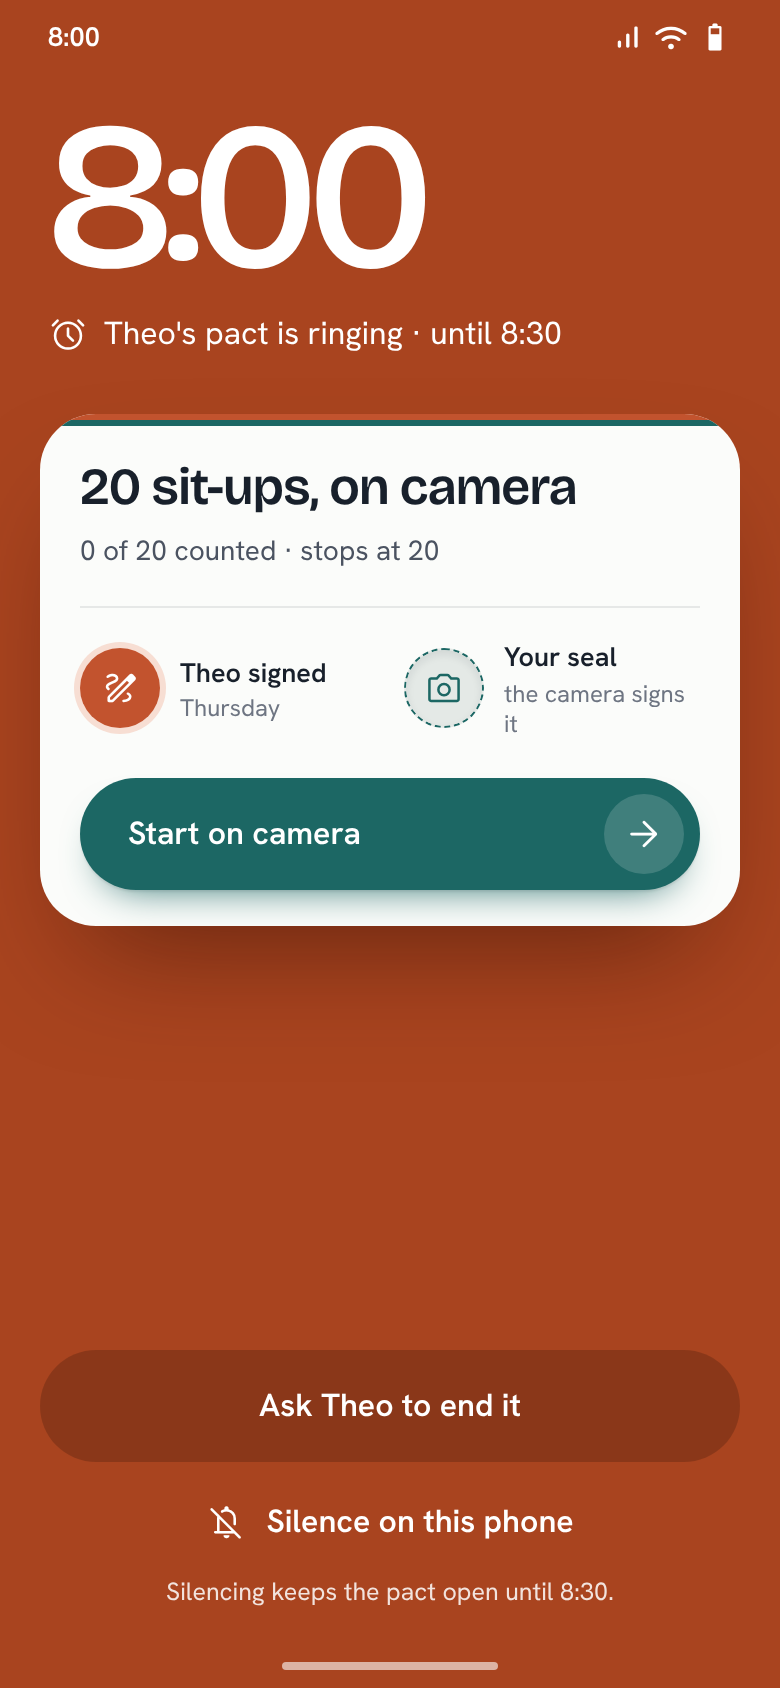
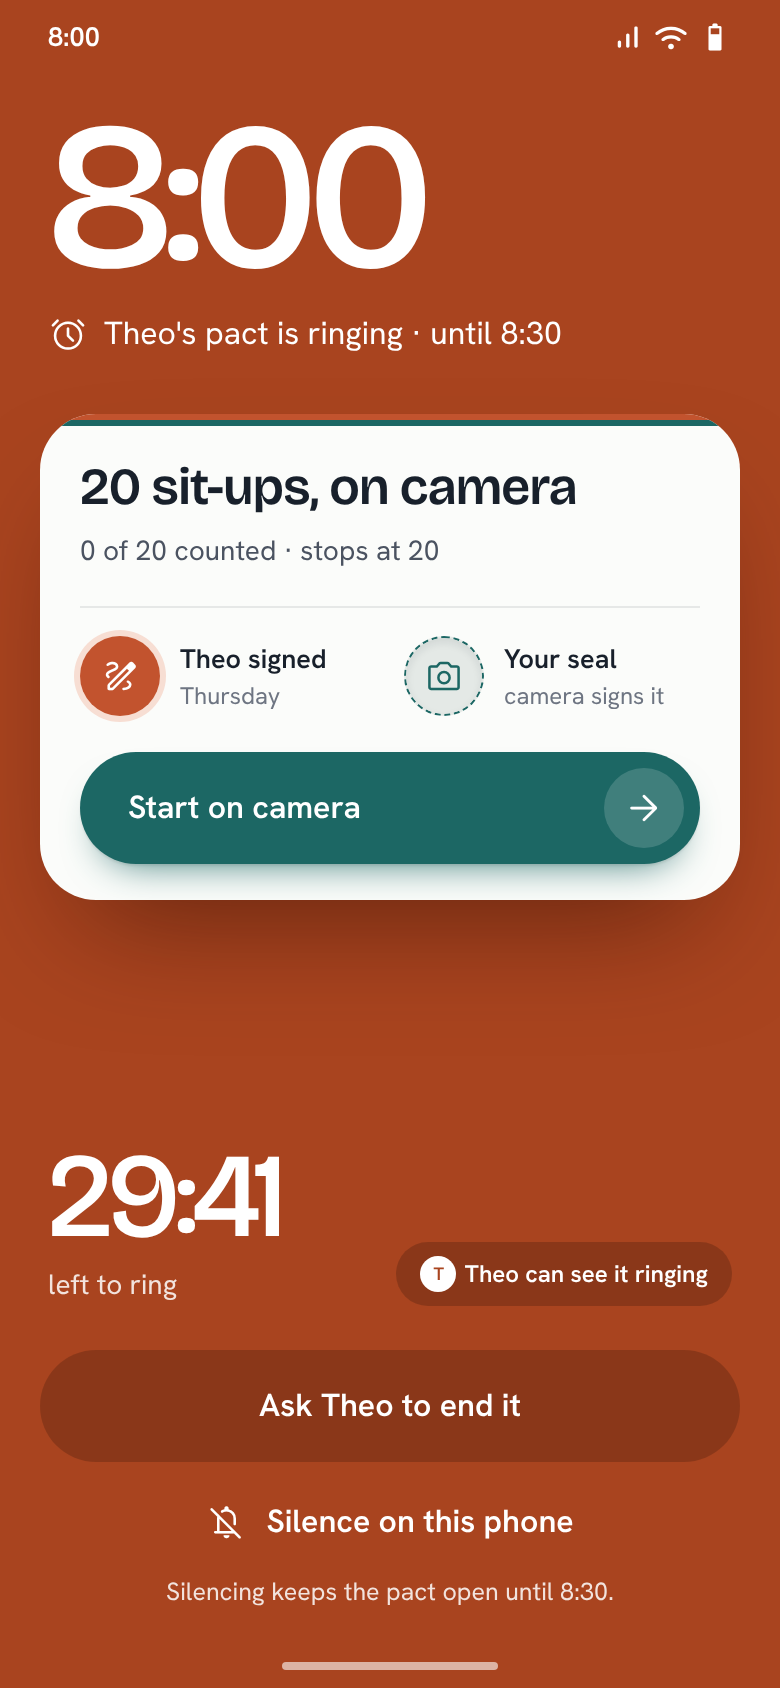
Resolve the verdict pass's remaining items on the Heartpact screens
The alarm's empty band now carries the live ring countdown and that
Theo can see it ringing; history axes label only their ends with today
marked by its ring; the sealed screen's strip agrees with its unbroken
15-day streak; two widowed lines rebalanced.

Claude-Session: https://claude.ai/code/session_01JQgGJKj4npsEDXdNrsNSqP

diff --git a/design/heartpact-v2/screens/09-pacts.html b/design/heartpact-v2/screens/09-pacts.html
@@ -3,24 +3,25 @@
   <div class="largebar"><div><div class="headline-l">Pacts</div><div class="sub">What you've promised each other</div></div></div>
   <div style="padding:0 12px"><div class="seg"><div class="on"><span class="ms s18">check</span>For you</div><div>You set</div></div></div>
   <div class="pact by-theo" style="margin:14px 12px 0"><div class="in" style="padding:20px 20px 18px">
-    <div style="display:flex;justify-content:space-between;align-items:flex-start"><div><div class="title-l">20 sit-ups</div><div class="body-s muted" style="margin-top:3px">Daily at 8:00 · set by Theo · rings up to 30 min</div></div><span class="tag maya">Sealed today</span></div>
+    <div style="display:flex;justify-content:space-between;align-items:flex-start"><div><div class="title-l">20 sit-ups</div><div class="body-s muted" style="margin-top:3px">Daily 8:00 · set by Theo · 30 min ring</div></div><span class="tag maya">Sealed today</span></div>
     <div class="days" style="margin-top:18px">
       <i class="sealed"></i><i class="sealed"></i><i class="sealed"></i><i class="missed"></i><i class="sealed"></i><i class="ended"></i><i class="sealed"></i><i class="sealed"></i><i class="sealed"></i><i class="sealed"></i><i class="sealed"></i><i class="sealed"></i><i class="sealed today"></i><i class="planned"></i>
     </div>
-    <div style="display:flex;justify-content:space-between;margin-top:6px" class="body-s faint"><span>29 Sep</span><span>Today</span><span>12 Oct</span></div>
+    <div style="display:flex;justify-content:space-between;margin-top:6px" class="body-s faint"><span>29 Sep</span><span>tomorrow, 12 Oct</span></div>
   </div></div>
   <div class="pact slim by-theo" style="margin:12px 12px 0"><div class="in">
     <div style="display:flex;justify-content:space-between;align-items:flex-start"><div><div class="title-l" style="font-size:17px">Plank, 60 seconds</div><div class="body-s muted" style="margin-top:3px">Sundays at 9:30 · set by Theo</div></div><span class="tag">Tomorrow</span></div>
     <div class="days" style="margin-top:14px">
       <i class="off"></i><i class="off"></i><i class="off"></i><i class="off"></i><i class="off"></i><i class="off"></i><i class="sealed"></i><i class="off"></i><i class="off"></i><i class="off"></i><i class="off"></i><i class="off"></i><i class="off"></i><i class="planned"></i>
     </div>
-    <div style="display:flex;justify-content:space-between;margin-top:6px" class="body-s faint"><span>29 Sep</span><span>Today</span><span>12 Oct</span></div>
+    <div style="display:flex;justify-content:space-between;margin-top:6px" class="body-s faint"><span>29 Sep</span><span>tomorrow, 12 Oct</span></div>
   </div></div>
   <div class="legend body-s muted" style="padding:14px 22px 0">
     <span><i style="background:var(--maya)"></i>sealed</span>
     <span><i style="border:1.5px solid var(--ink-3)"></i>missed</span>
     <span><i class="days-ended" style="border:1.5px solid var(--ink-4)"></i>ended together</span>
     <span><i style="border:1.5px dashed var(--maya)"></i>scheduled</span>
+    <span><i style="background:var(--maya);box-shadow:0 0 0 3px var(--maya-soft)"></i>today</span>
   </div>
 </div>
 <div class="fab act-maya" style="bottom:126px"><span class="ms">add</span>New pact for Theo</div>

diff --git a/design/heartpact-v2/screens/05-alarm.html b/design/heartpact-v2/screens/05-alarm.html
@@ -9,13 +9,17 @@
       <div class="body-m muted" style="margin-top:6px">0 of 20 counted · stops at 20</div>
       <div class="seals" style="margin-top:18px;padding-top:14px;border-top:1px solid var(--rule)">
         <div class="sealrow"><div class="seal signed theo"><span class="ms s20">draw</span></div><div><span class="l">Theo signed</span><small>Thursday</small></div></div>
-        <div class="sealrow"><div class="seal pending maya"><span class="ms s20">photo_camera</span></div><div><span class="l">Your seal</span><small>the camera signs it</small></div></div>
+        <div class="sealrow"><div class="seal pending maya"><span class="ms s20">photo_camera</span></div><div><span class="l">Your seal</span><small>camera signs it</small></div></div>
       </div>
       <div class="btn filled trail act-maya" style="margin-top:18px">Start on camera<span class="knob"><span class="ms">arrow_forward</span></span></div>
     </div>
   </div>
 
-  <div class="stack" style="margin-top:auto;padding-bottom:40px">
+  <div style="margin-top:auto;padding:0 4px;display:flex;align-items:flex-end;justify-content:space-between">
+    <div><div class="display-m" style="font-size:60px">29:41</div><div class="body-m" style="opacity:.85;margin-top:6px">left to ring</div></div>
+    <span class="tag" style="background:rgba(0,0,0,.18);color:#fff;height:32px;padding:0 12px;border-radius:16px"><span class="disc sm theo" style="width:18px;height:18px;font-size:9px;background:#fff;color:#A9441F">T</span>Theo can see it ringing</span>
+  </div>
+  <div class="stack" style="margin-top:22px;padding-bottom:40px">
     <div class="btn" style="background:rgba(0,0,0,.18);color:#fff">Ask Theo to end it</div>
     <div class="btn text" style="--act:#fff"><span class="ms s20">notifications_off</span>Silence on this phone</div>
     <div class="body-s" style="text-align:center;opacity:.85;margin-top:-4px">Silencing keeps the pact open until 8:30.</div>

diff --git a/design/heartpact-v2/screens/07-sealed.html b/design/heartpact-v2/screens/07-sealed.html
@@ -17,9 +17,9 @@
   <div class="card" style="margin-top:12px;padding:18px 18px 16px">
     <div style="display:flex;justify-content:space-between;align-items:baseline"><span class="label-l">Together 15 days</span><span class="body-s muted">20 sit-ups, daily</span></div>
     <div class="days" style="margin-top:14px">
-      <i class="sealed"></i><i class="sealed"></i><i class="sealed"></i><i class="missed"></i><i class="sealed"></i><i class="ended"></i><i class="sealed"></i><i class="sealed"></i><i class="sealed"></i><i class="sealed"></i><i class="sealed"></i><i class="sealed"></i><i class="sealed today"></i><i class="planned"></i>
+      <i class="sealed"></i><i class="sealed"></i><i class="sealed"></i><i class="sealed"></i><i class="sealed"></i><i class="sealed"></i><i class="sealed"></i><i class="sealed"></i><i class="sealed"></i><i class="sealed"></i><i class="sealed"></i><i class="sealed"></i><i class="sealed today"></i><i class="planned"></i>
     </div>
-    <div style="display:flex;justify-content:space-between;margin-top:6px" class="body-s faint"><span>29 Sep</span><span>Today</span><span>12 Oct</span></div>
+    <div style="display:flex;justify-content:space-between;margin-top:6px" class="body-s faint"><span>29 Sep</span><span>tomorrow, 12 Oct</span></div>
   </div>
 </div>
 <div class="act-maya stack" style="padding:8px 20px 40px"><div class="btn filled">Set one for Theo</div><div class="btn text">Back to today</div></div>
